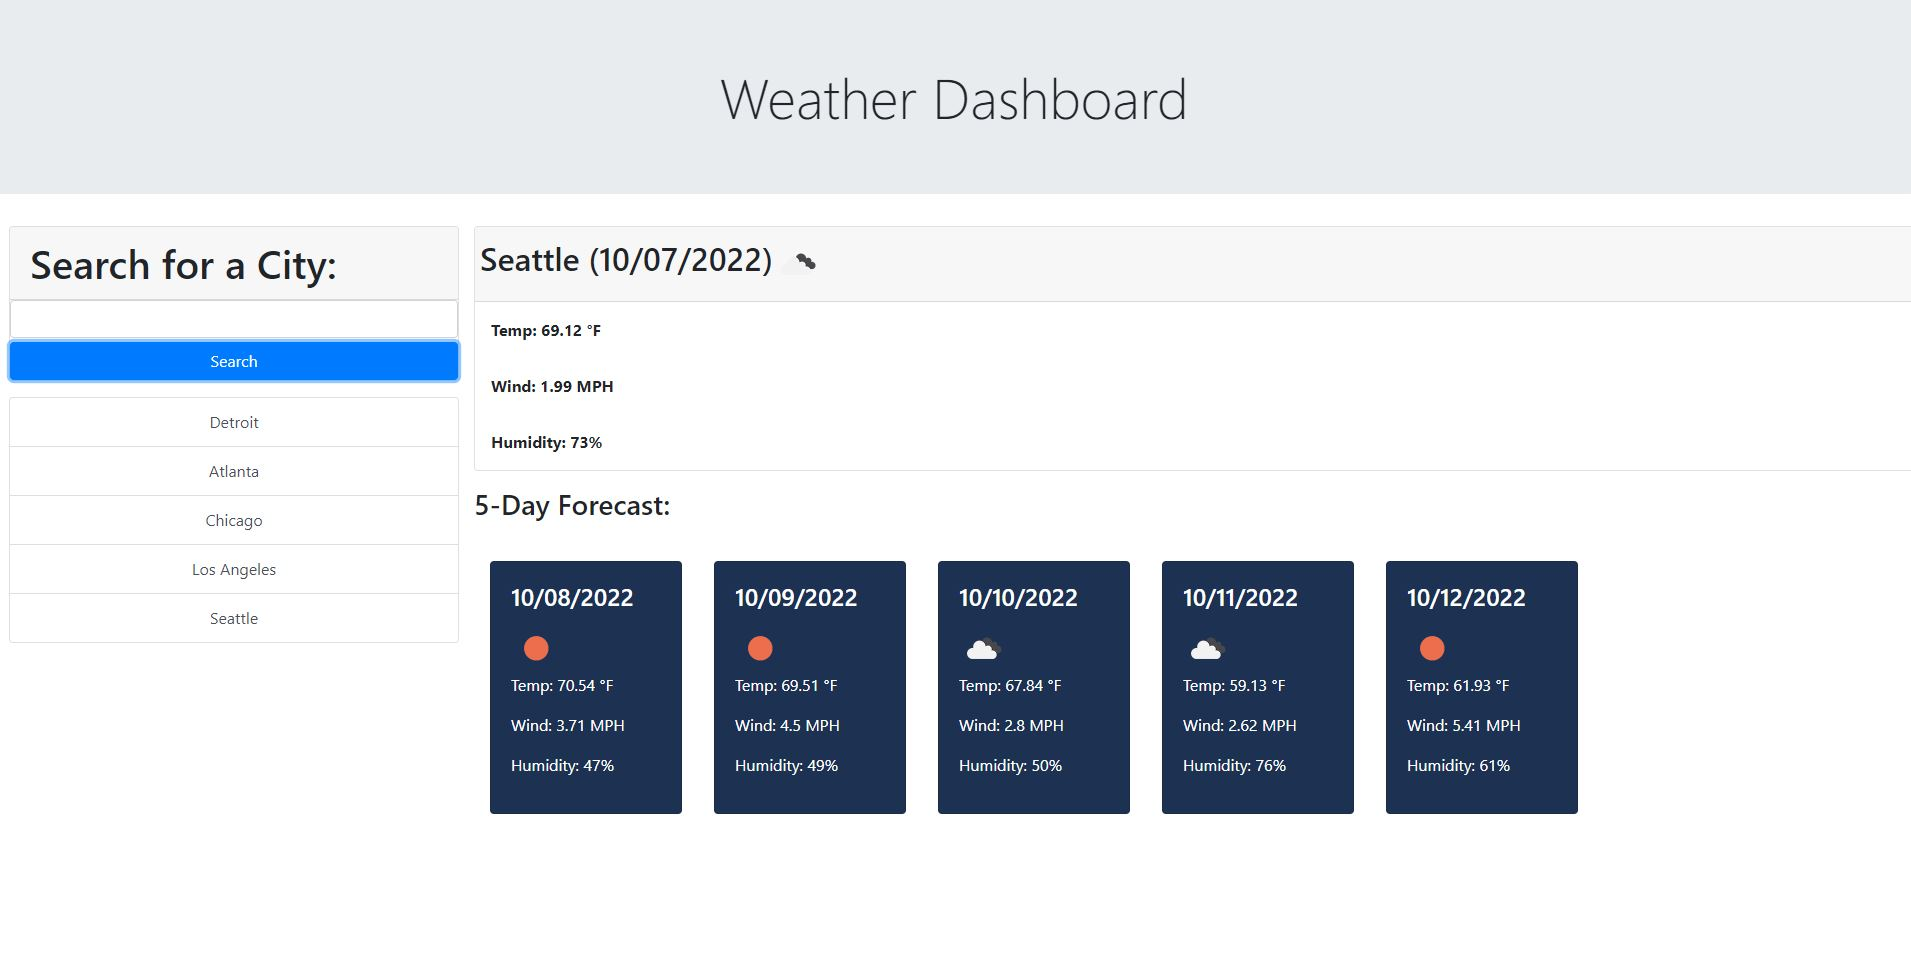
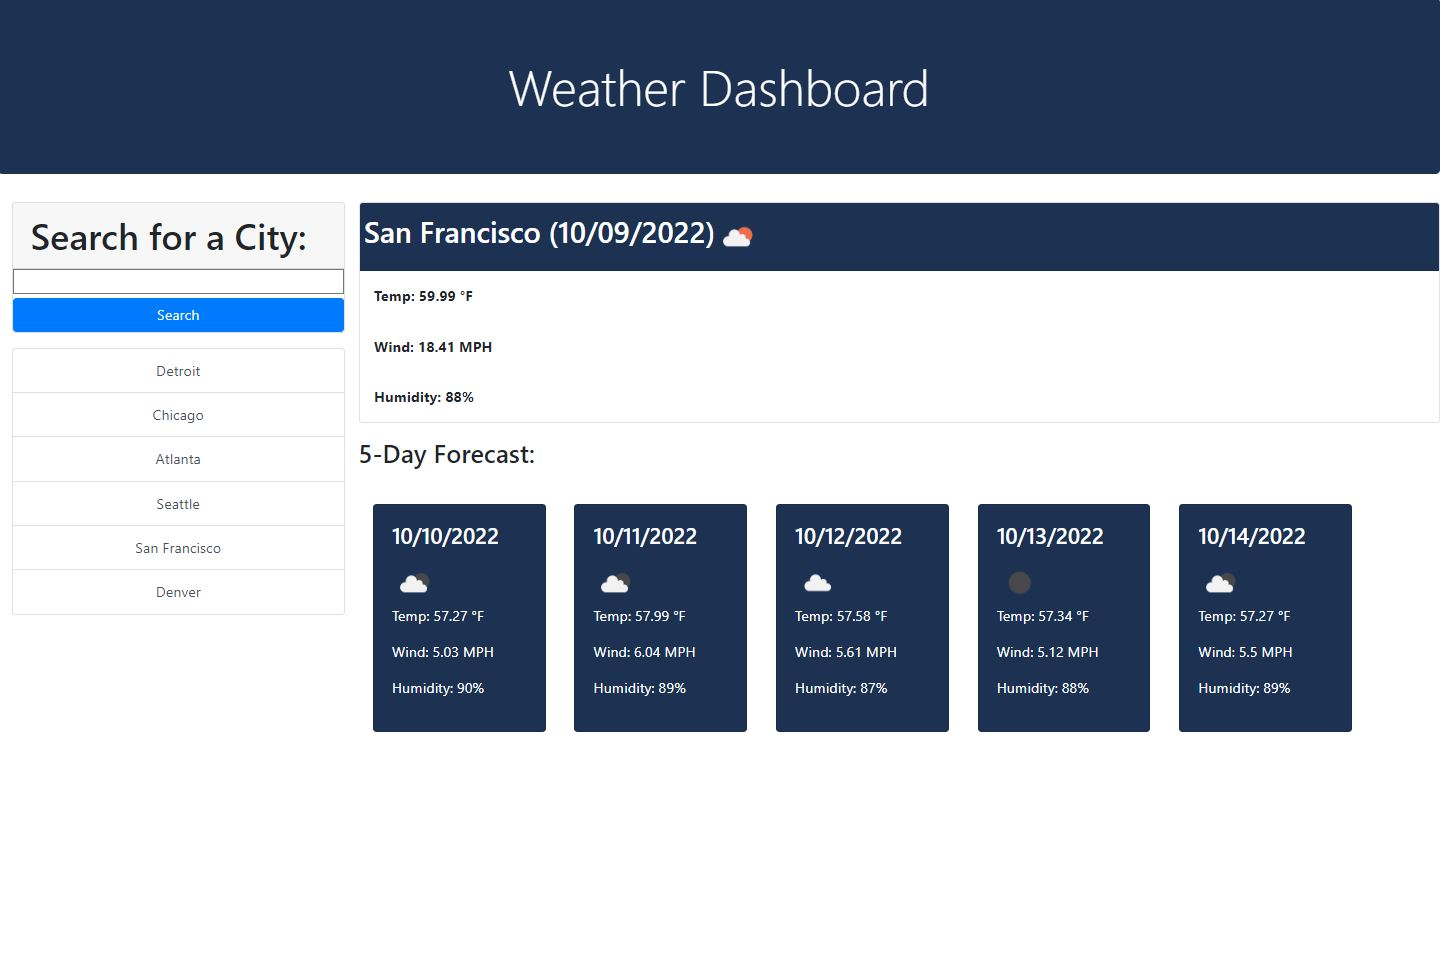
update forecast fetch

diff --git a/assets/js/script.js b/assets/js/script.js
@@ -88,14 +88,13 @@ function searchAPIWeather(lat, lon) {
 	.then(function(response) {//then method used to return a response object (1st promise)
 		if(response.ok) {//checks if response is successful
 			response.json().then(function(data) {//2nd promise to return a body property called data in JSON format
-        console.log(data);
         if(data.length===0){
           alert("No results found.");
         } else {
           //function to display results
           forecastEl.text("");//clears previous cards
           for(var i=0; i<40; i++) {
-            if((data.list[i].dt_txt.indexOf("00:00:00") > -1) && moment(data.list[i].dt_txt).format("L")!==moment().format("L")) { //checks to output weather at noon for each day
+            if((data.list[i].dt_txt.indexOf("09:00:00") > -1) && moment(data.list[i].dt_txt).format("L")!==moment().format("L")) { //checks to output weather at noon for each day
             printForecast(data.list[i], i);
            }
           }
